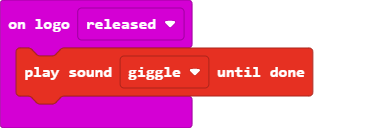
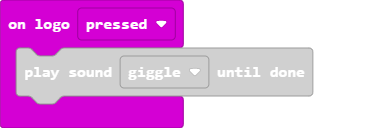
Update main.blocks, main.ts

diff --git a/main.ts b/main.ts
@@ -28,7 +28,7 @@ input.onButtonPressed(Button.B, function () {
         basic.showIcon(IconNames.No)
     }
 })
-input.onLogoEvent(TouchButtonEvent.Released, function () {
+input.onLogoEvent(TouchButtonEvent.Pressed, function () {
     soundExpression.giggle.playUntilDone()
 })
 let force = 0
